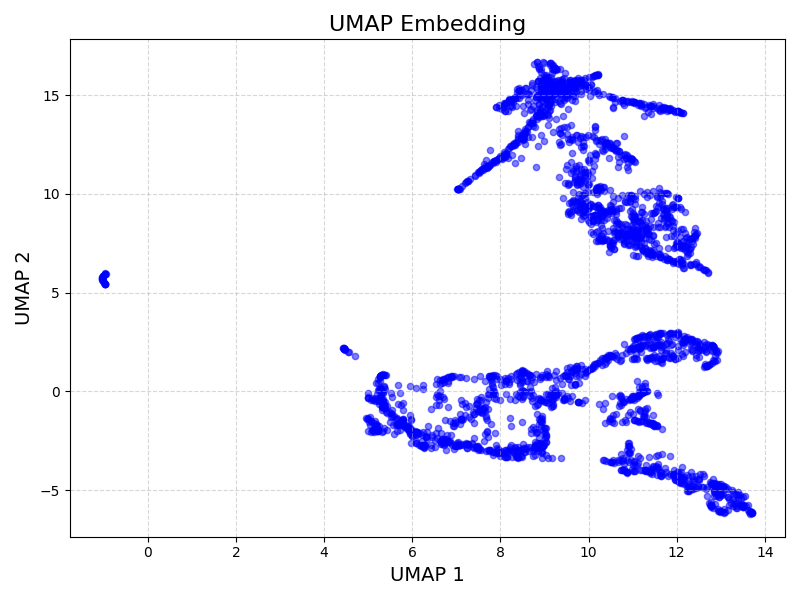
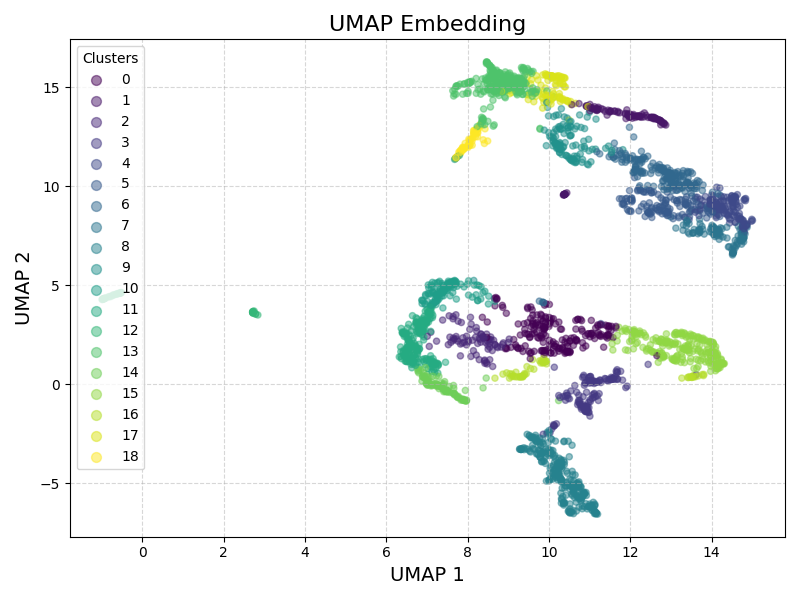
add leiden clustering to umap
color plots by cluster, changed umap reducer function to be on a copy of adata instead of adata

diff --git a/build/lib/scPyDR/utils.py b/build/lib/scPyDR/utils.py
@@ -10,8 +10,10 @@ import matplotlib.pyplot as plt
 import anndata as ad
 from anndata import AnnData
 import scanpy as sc
-import umap
+import umap.umap_ as umap
+import leidenalg
 import os
+from matplotlib.colors import ListedColormap, BoundaryNorm
 
 class bcolors:
     HEADER = '\033[95m'
@@ -236,7 +238,7 @@ class scpydrPCA:
         sort_idx = np.argsort(eigenvalues)[::-1]
         eigenvalues = eigenvalues[sort_idx]
         eigenvectors = eigenvectors[:, sort_idx]  # Column i is the i'th eigenvector
-        self.components = eigenvectors[:self.nComp]  # Store subset of eigenvectors as the PCs of our data
+        self.components = eigenvectors[:, :self.nComp]  # Store subset of eigenvectors as the PCs of our data
         # Explained variance ratio
         self.perc_explained_var = (np.sum(eigenvalues[:self.nComp]) / np.sum(eigenvalues)) * 100  # For analysis later
 
@@ -257,7 +259,7 @@ class scpydrPCA:
             Transformed data matrix made by projecting raw counts onto the new principal component axes.
         """
         X_std = (X - self.mean) / self.normalize 
-        return np.dot(X_std, self.components.T)
+        return np.dot(X_std, self.components)
     
 def save_pca_results(outdir, filename_prefix, pca_results):
     """
@@ -333,17 +335,22 @@ def umap_embedding(adata, min_dist=0.1, n_components=2, n_epochs=200, learning_r
     -------
     np.ndarray
         UMAP embedding of the input data.
+    pandas.Series
+        Cluster labels from the Leiden algorithm.
     """
     adatac = adata.copy()  # Make a copy to avoid modifying the original object
     
     # Compute default number of neighbors if not specified by the user
     if n_neighbors is None:
-        # Use a heuristic based on the size of the data: >10000 genes has different number of neighbors
+        # Use a heuristic based on the size of the data
         n_neighbors = 15 if adatac.shape[0] > 10000 else 10
     
     # Compute nearest neighbors using scanpy's algorithm
     sc.pp.neighbors(adatac, n_neighbors=n_neighbors)
     
+    # Cluster cells based on expression profiles with the igraph backend
+    sc.tl.leiden(adatac, flavor="igraph", n_iterations=2, directed=False)
+
     # Create UMAP object
     reducer = umap.UMAP(
         n_neighbors=n_neighbors,
@@ -356,10 +363,10 @@ def umap_embedding(adata, min_dist=0.1, n_components=2, n_epochs=200, learning_r
     )
     
     # Fit and transform the data
-    embedding = reducer.fit_transform(adata.X)
-    return embedding
+    embedding = reducer.fit_transform(adatac.X)
+    return embedding, adatac.obs['leiden']
 
-def plot_umap_results(outdir, filename_prefix, umap_embedding):
+def plot_umap_results(outdir, filename_prefix, umap_embedding, cluster_labels):
     """
     Plot UMAP results and save the plot to a file.
 
@@ -371,19 +378,36 @@ def plot_umap_results(outdir, filename_prefix, umap_embedding):
         Prefix for the output filename.
     umap_embedding : np.ndarray
         UMAP results to plot.
+    cluster_labels : pandas.Series
+        Cluster labels for coloring the plot.
 
     Returns
     -------
     None
     """
+    # Extract only the cluster labels without the index, convert to int
+    cluster_labels = cluster_labels.values.astype(int)
+
+    # Define a discrete colormap
+    num_clusters = len(np.unique(cluster_labels))
+    cmap = ListedColormap(plt.cm.get_cmap('viridis', num_clusters).colors)
+
+    # Plot the UMAP embedding
     fig, ax = plt.subplots(figsize=(8, 6))  # Set the figure size
-    ax.scatter(umap_embedding[:, 0], umap_embedding[:, 1], s=20, c='b', alpha=0.5)  # Adjust marker size, color, and transparency
+    scatter = ax.scatter(umap_embedding[:, 0], umap_embedding[:, 1], s=20, c=cluster_labels, cmap=cmap, alpha=0.5)  # Adjust marker size, color, and transparency
     ax.set_title('UMAP Embedding', fontsize=16)  # Set title and adjust font size
     ax.set_xlabel('UMAP 1', fontsize=14)  # Set x-axis label and adjust font size
     ax.set_ylabel('UMAP 2', fontsize=14)  # Set y-axis label and adjust font size
     ax.grid(True, linestyle='--', alpha=0.5)  # Add grid with dashed lines and transparency
+
+    # Create a legend with discrete dots for each cluster
+    handles = []
+    for cluster in np.unique(cluster_labels):
+        handles.append(ax.scatter([], [], s=50, c=[cmap(cluster)], alpha=0.5, label=cluster))
+    ax.legend(handles=handles, title="Clusters", loc='best')
+
     plt.tight_layout()  # Adjust layout to prevent overlapping labels
-    
+
     output_plot = os.path.join(outdir, f"{filename_prefix}_umap_plot.png")
     plt.savefig(output_plot)
     plt.close()

diff --git a/scPyDR/utils.py b/scPyDR/utils.py
@@ -11,8 +11,9 @@ import anndata as ad
 from anndata import AnnData
 import scanpy as sc
 import umap.umap_ as umap
-import os
 import leidenalg
+import os
+from matplotlib.colors import ListedColormap, BoundaryNorm
 
 class bcolors:
     HEADER = '\033[95m'
@@ -334,17 +335,22 @@ def umap_embedding(adata, min_dist=0.1, n_components=2, n_epochs=200, learning_r
     -------
     np.ndarray
         UMAP embedding of the input data.
+    pandas.Series
+        Cluster labels from the Leiden algorithm.
     """
     adatac = adata.copy()  # Make a copy to avoid modifying the original object
     
     # Compute default number of neighbors if not specified by the user
     if n_neighbors is None:
-        # Use a heuristic based on the size of the data: >10000 genes has different number of neighbors
+        # Use a heuristic based on the size of the data
         n_neighbors = 15 if adatac.shape[0] > 10000 else 10
     
     # Compute nearest neighbors using scanpy's algorithm
     sc.pp.neighbors(adatac, n_neighbors=n_neighbors)
     
+    # Cluster cells based on expression profiles with the igraph backend
+    sc.tl.leiden(adatac, flavor="igraph", n_iterations=2, directed=False)
+
     # Create UMAP object
     reducer = umap.UMAP(
         n_neighbors=n_neighbors,
@@ -357,10 +363,10 @@ def umap_embedding(adata, min_dist=0.1, n_components=2, n_epochs=200, learning_r
     )
     
     # Fit and transform the data
-    embedding = reducer.fit_transform(adata.X)
-    return embedding
+    embedding = reducer.fit_transform(adatac.X)
+    return embedding, adatac.obs['leiden']
 
-def plot_umap_results(outdir, filename_prefix, umap_embedding):
+def plot_umap_results(outdir, filename_prefix, umap_embedding, cluster_labels):
     """
     Plot UMAP results and save the plot to a file.
 
@@ -372,19 +378,36 @@ def plot_umap_results(outdir, filename_prefix, umap_embedding):
         Prefix for the output filename.
     umap_embedding : np.ndarray
         UMAP results to plot.
+    cluster_labels : pandas.Series
+        Cluster labels for coloring the plot.
 
     Returns
     -------
     None
     """
+    # Extract only the cluster labels without the index, convert to int
+    cluster_labels = cluster_labels.values.astype(int)
+
+    # Define a discrete colormap
+    num_clusters = len(np.unique(cluster_labels))
+    cmap = ListedColormap(plt.cm.get_cmap('viridis', num_clusters).colors)
+
+    # Plot the UMAP embedding
     fig, ax = plt.subplots(figsize=(8, 6))  # Set the figure size
-    ax.scatter(umap_embedding[:, 0], umap_embedding[:, 1], s=20, c='b', alpha=0.5)  # Adjust marker size, color, and transparency
+    scatter = ax.scatter(umap_embedding[:, 0], umap_embedding[:, 1], s=20, c=cluster_labels, cmap=cmap, alpha=0.5)  # Adjust marker size, color, and transparency
     ax.set_title('UMAP Embedding', fontsize=16)  # Set title and adjust font size
     ax.set_xlabel('UMAP 1', fontsize=14)  # Set x-axis label and adjust font size
     ax.set_ylabel('UMAP 2', fontsize=14)  # Set y-axis label and adjust font size
     ax.grid(True, linestyle='--', alpha=0.5)  # Add grid with dashed lines and transparency
+
+    # Create a legend with discrete dots for each cluster
+    handles = []
+    for cluster in np.unique(cluster_labels):
+        handles.append(ax.scatter([], [], s=50, c=[cmap(cluster)], alpha=0.5, label=cluster))
+    ax.legend(handles=handles, title="Clusters", loc='best')
+
     plt.tight_layout()  # Adjust layout to prevent overlapping labels
-    
+
     output_plot = os.path.join(outdir, f"{filename_prefix}_umap_plot.png")
     plt.savefig(output_plot)
     plt.close()

diff --git a/build/lib/scPyDR/scPyDR.py b/build/lib/scPyDR/scPyDR.py
@@ -132,12 +132,6 @@ def main():
 
     sys.stdout.write("Loading 10x Genomics data files...\n")
 
-    """
-    NOTES: 
-    - metadata not used. should we have an option to call metadata into the function?
-    - errors are very vague. try to make more user friendly/offer next steps to user.
-    """
-
     try:
         adata = utils.load(args.datadir, prefix="", cache=True)
     except Exception:
@@ -189,19 +183,13 @@ def main():
 
     if args.umap:
         sys.stdout.write("Running UMAP for dimensionality reduction and visualization... \n")
-        umap_embedding = utils.umap_embedding(adata)
+        umap_embedding, cluster_labels = utils.umap_embedding(adata)
         # Further actions with umap_embedding if needed
         sys.stdout.write("UMAP computation completed! \n\n")
         if args.visualize:
             # Plot the UMAP embedding
             sys.stdout.write("Plotting UMAP embedding... \n")
-            utils.plot_umap_results(outdir, filename_prefix, umap_embedding)
-
-    # -------------------- save and plot UMAP embedding --------------------
-
-    # TRY LATER: 
-    # sys.stdout.write("Would you like to visualize the data in 2D? [y/n] \n")
-    # input()
+            utils.plot_umap_results(outdir, filename_prefix, umap_embedding, cluster_labels)
 
     # -------------------- analysis and conclusion --------------------
 

diff --git a/scPyDR/scPyDR.py b/scPyDR/scPyDR.py
@@ -183,13 +183,13 @@ def main():
 
     if args.umap:
         sys.stdout.write("Running UMAP for dimensionality reduction and visualization... \n")
-        umap_embedding = utils.umap_embedding(adata)
+        umap_embedding, cluster_labels = utils.umap_embedding(adata)
         # Further actions with umap_embedding if needed
         sys.stdout.write("UMAP computation completed! \n\n")
         if args.visualize:
             # Plot the UMAP embedding
             sys.stdout.write("Plotting UMAP embedding... \n")
-            utils.plot_umap_results(outdir, filename_prefix, umap_embedding)
+            utils.plot_umap_results(outdir, filename_prefix, umap_embedding, cluster_labels)
 
     # -------------------- analysis and conclusion --------------------
 

diff --git a/benchmark/scPyDR_umap.py b/benchmark/scPyDR_umap.py
@@ -13,8 +13,8 @@ def main():
     adata = sc.read_10x_mtx(args.datadir)
 
     # Call scPyDR UMAP functions
-    umap_embedding_result = umap_embedding(adata)
-    plot_umap_results(args.outdir, "benchmark", umap_embedding_result)
+    umap_embedding_result, cluster_labels = umap_embedding(adata)
+    plot_umap_results(args.outdir, "benchmark", umap_embedding_result, cluster_labels)
 
 if __name__ == "__main__":
     main()

diff --git a/benchmark/scanpy_umap.py b/benchmark/scanpy_umap.py
@@ -21,7 +21,7 @@ def main():
     sc.tl.umap(adata) 
 
     # Make a UMAP plot
-    sc.pl.umap(adata, save=True, show=False)
+    sc.pl.umap(adata, color="leiden", save=True, show=False)
 
 if __name__ == "__main__":
     main()
